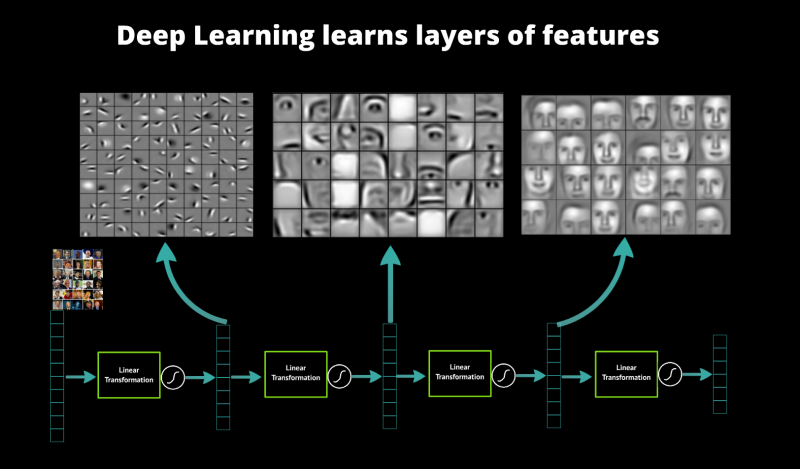
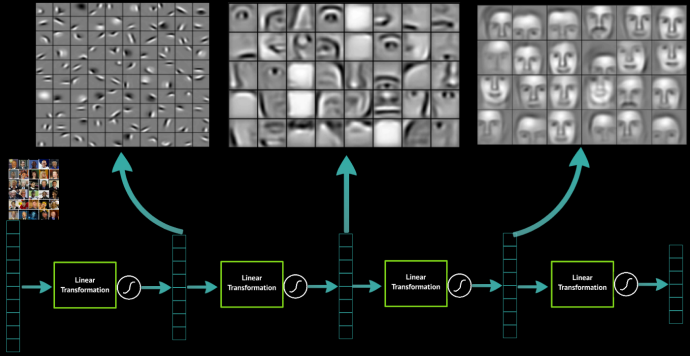
A little polishing

diff --git a/index.html b/index.html
@@ -18,7 +18,7 @@
 <body>
 <div class="reveal">
     <div class="slides">
-        <section>
+        <section data-background-color="#212121">
             <h1>
                 Deep learning with<br>
                 <img class="plain" src="img/logo.png">
@@ -112,7 +112,7 @@
                 </p>
             </section>
         </section>
-        <section>
+        <section data-background-color="#000000">
             <h2>Deep learning</h2>
             <section>
                 <p>
@@ -130,7 +130,7 @@
                     Feature extraction at multiple levels of abstraction
                 </p>
                 <p>
-                    <img src="img/deeplearning.png">
+                    <img src="img/deeplearning.png" style="width:100%">
                 </p>
             </section>
             <section>

diff --git a/js/anim.js b/js/anim.js
@@ -273,7 +273,7 @@
             opt.strokeWidth = 1.5;
             opt.isShowStart = true;
             opt.stroke = '#FFF';
-            opt.opacity = 0.2;
+            opt.opacity = 0.3;
 
             new mojs.Shape(opt);
         };

diff --git a/css/theme/black.css b/css/theme/black.css
@@ -229,7 +229,6 @@ body {
  *********************************************/
 .reveal section img {
   margin: 15px 0px;
-  border: 4px solid #fff;
   box-shadow: 0 0 10px rgba(0, 0, 0, 0.15); }
 
 .reveal section img.plain {
